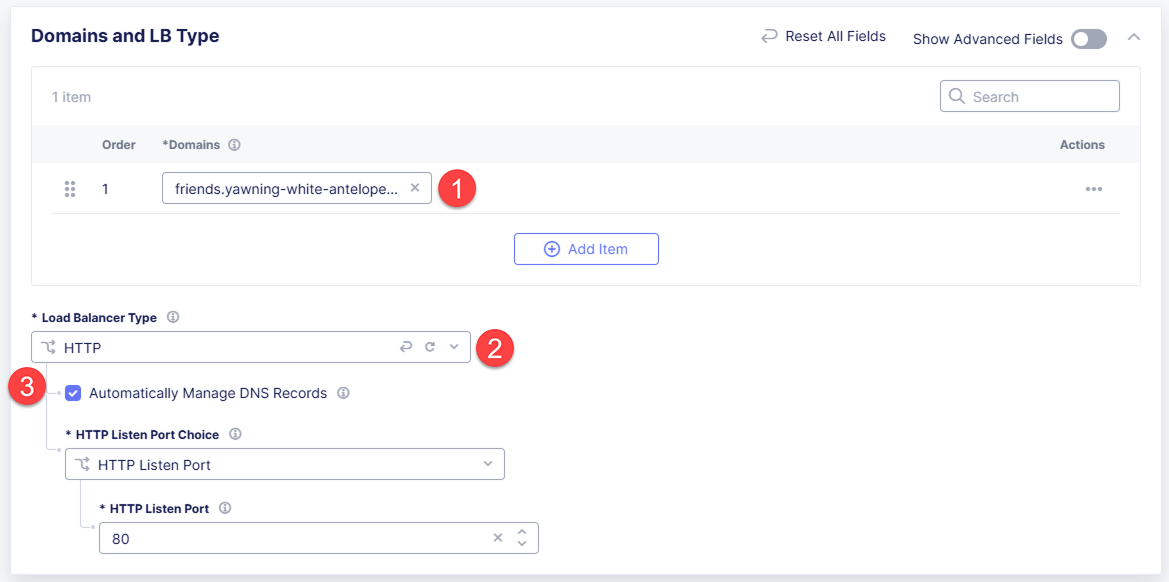
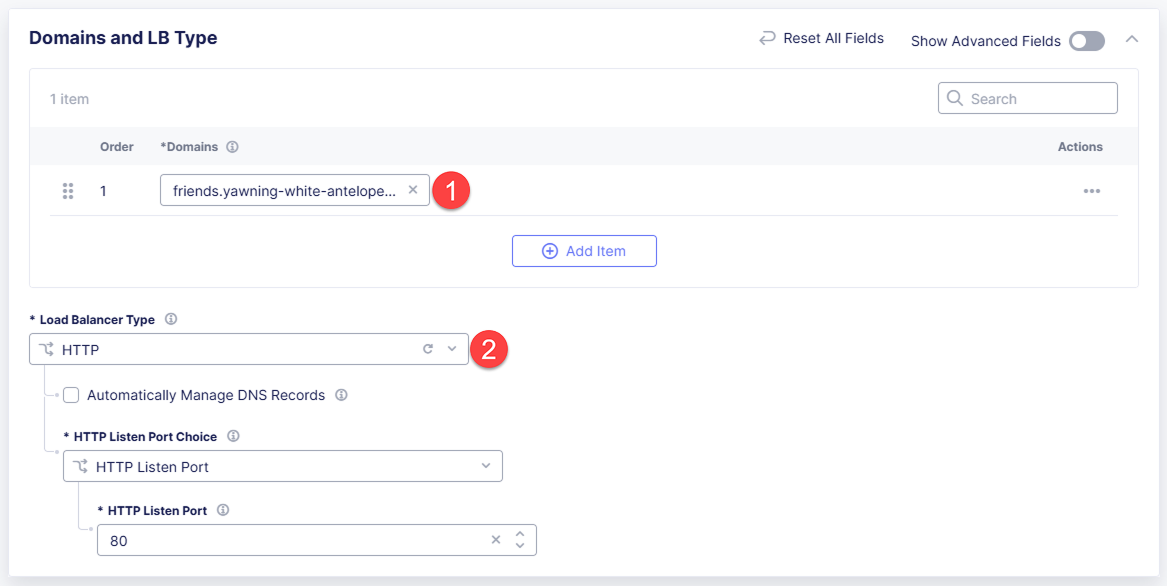
edited 2 screens and their descriptions

diff --git a/README.md b/README.md
@@ -196,7 +196,7 @@ Give this Load Balancer a name. For this use case, we will use **friends-module*
 
 ![Cloud B LB Metadata](assets/cloud_b_lb_metadata.png)
 
-Now we need to provide a domain name for our workload. In this use case, we will specify **friends.yawning-white-antelope.github.securelab.online**. Then open the drop-down menu to select the Load Balancer type - **HTTP** and check off the box to enable automatic managing of DNS records. Make sure port **80** is specified.
+Now we need to provide a domain name for our workload. In this use case, we will specify **friends.yawning-white-antelope.github.securelab.online**. Then open the drop-down menu to select **HTTP** Load Balancer type. Make sure port **80** is specified.
 
 ![Cloud B LB DNS](assets/cloud_b_lb_dns.png)
 
@@ -342,7 +342,7 @@ Apply the updated configuration to the Site by clicking **Apply**.
 
 ![Cloud C Azure 7](assets/cloud_c_azure_7.png)
 
-Take a look at the configuration and complete the updating by clicking **Add Azure VNET Site**.
+Take a look at the configuration and complete the updating by clicking **Save Azure VNET Site**.
 
 ![Cloud C Azure 8](assets/cloud_c_azure_8.png)
 
